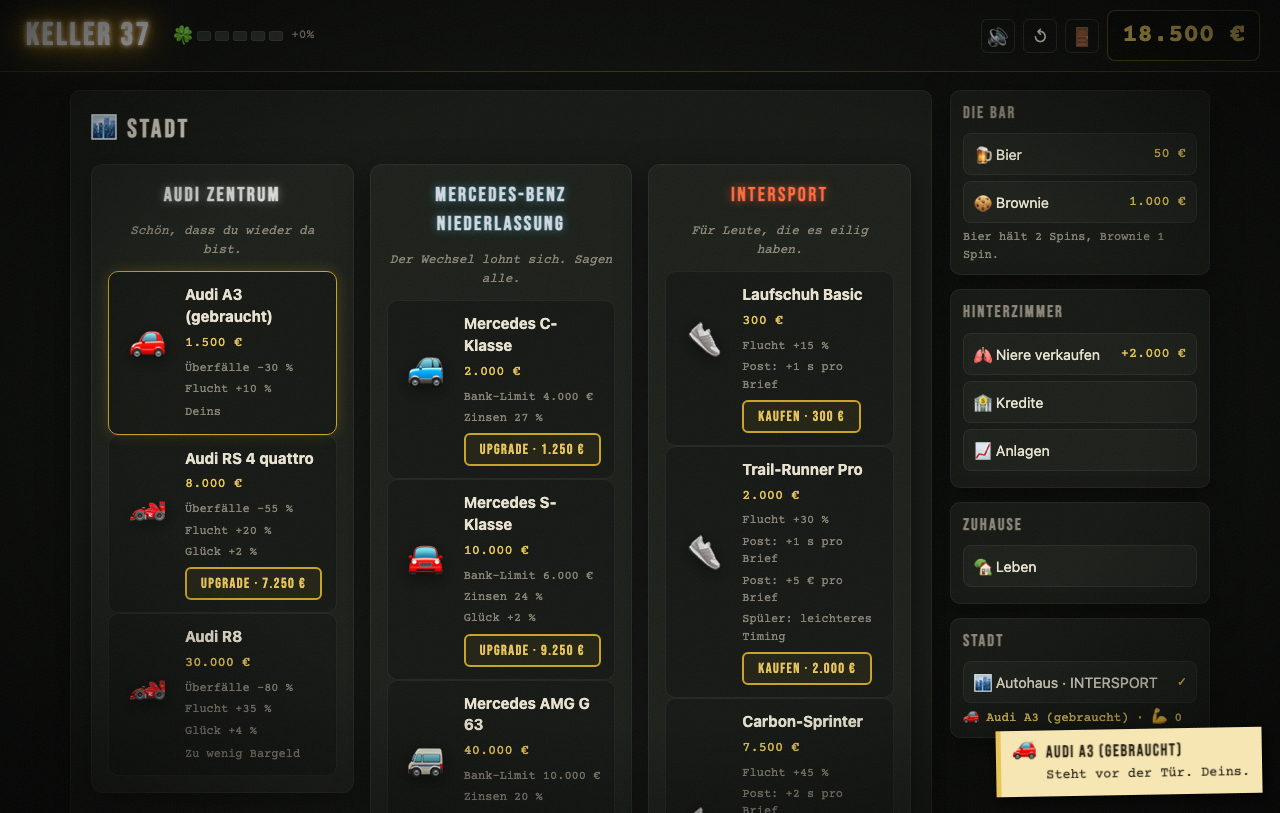
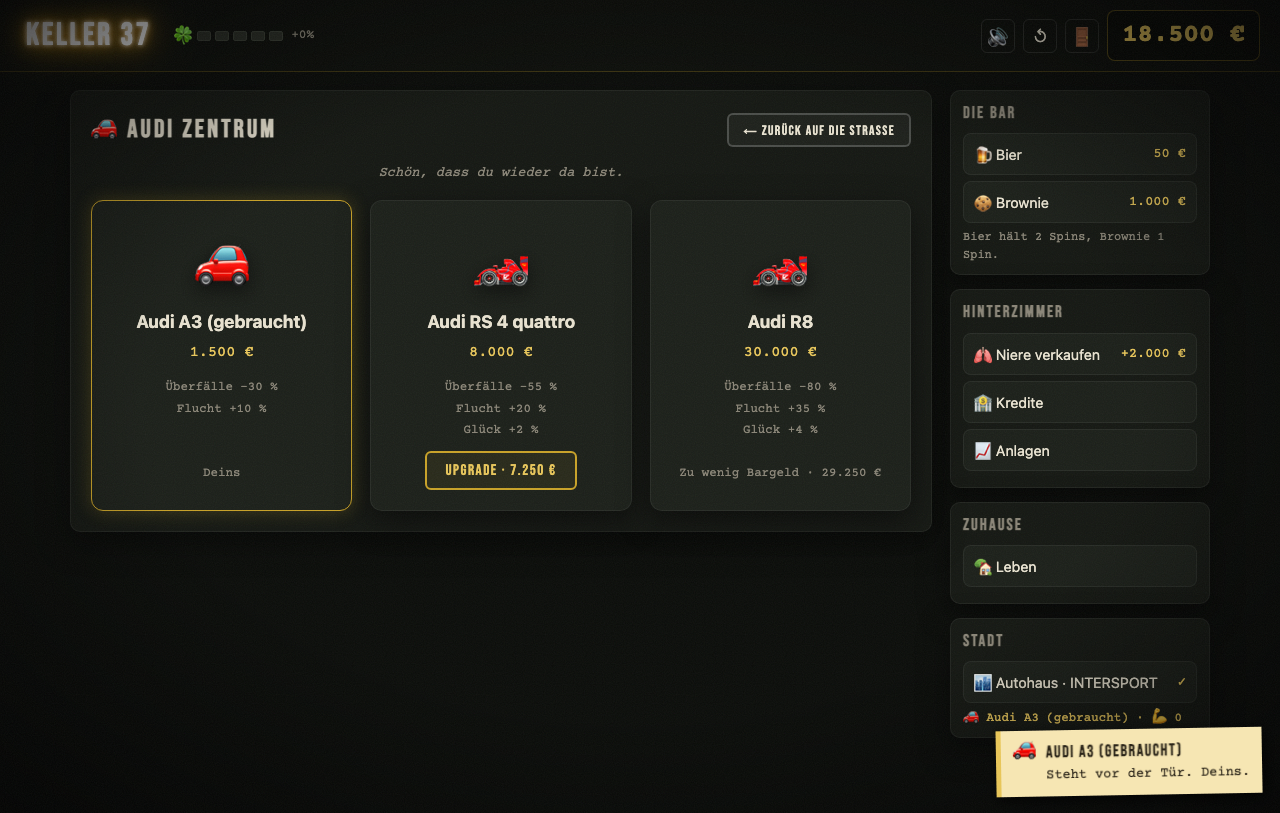
feat(stadt): Straße mit drei Schaufenstern, Läden öffnen sich per Klick mit drei Karten nebeneinander; ?shop=-Parameter

diff --git a/keller37.html b/keller37.html
@@ -502,27 +502,37 @@ body.mode-story #newgame, body.mode-story #toTitle { display: none; }
 @media (min-width: 1440px) and (min-height: 820px) { .body, .title-inner { zoom: 1.15; } }
 @media (min-width: 1700px) and (min-height: 900px) { .body, .title-inner { zoom: 1.35; } }
 @media (min-width: 2200px) and (min-height: 1100px) { .body, .title-inner { zoom: 1.65; } }
-/* ==== Stadt – Autohaus & INTERSPORT ==== */
-.stadt { display: grid; grid-template-columns: repeat(3, 1fr); gap: 16px; align-items: start; }
-.shop { background: var(--panel-2); border: 1px solid rgba(255,255,255,.06); border-radius: 12px; padding: 16px; display: flex; flex-direction: column; gap: 12px; box-shadow: var(--shadow); }
-.shop h3 { font-family: var(--font-display); letter-spacing: .12em; font-size: 1.25rem; text-align: center; }
-.shop.audi h3 { color: #d8d8d8; text-shadow: 0 0 10px rgba(255,255,255,.35); }
-.shop.merc h3 { color: #cfd8e3; text-shadow: 0 0 10px rgba(76,201,240,.45); }
-.shop.sport h3 { color: #ff6a3d; text-shadow: 0 0 10px rgba(255,106,61,.5); }
-.shop .seller { font-family: var(--font-mono); font-size: .8rem; color: var(--dim); text-align: center; font-style: italic; min-height: 2.2em; }
-.gear-card { background: rgba(0,0,0,.25); border: 1px solid rgba(255,255,255,.06); border-radius: 10px; padding: 12px; display: grid; grid-template-columns: 52px 1fr; gap: 6px 12px; align-items: center; }
-.gear-card.owned { border-color: var(--gold); box-shadow: 0 0 14px rgba(201,162,39,.25); }
-.gear-card .pic { font-size: 2.2rem; grid-row: span 3; text-align: center; filter: drop-shadow(0 4px 8px rgba(0,0,0,.6)); }
-.gear-card .name { font-weight: 700; }
-.gear-card .price { font-family: var(--font-mono); color: var(--gold-2); font-size: .85rem; }
-.gear-card ul { list-style: none; font-family: var(--font-mono); font-size: .75rem; color: var(--dim); display: flex; flex-wrap: wrap; gap: 4px 10px; }
-.gear-card .btn { grid-column: 2; justify-self: start; font-size: .9rem; padding: 6px 14px; }
-.gear-card .reason { grid-column: 2; font-family: var(--font-mono); font-size: .75rem; color: var(--dim); }
+/* ==== Stadt – Straße mit drei Läden, Laden mit drei Karten ==== */
+.stadt-head { display: flex; align-items: center; justify-content: space-between; gap: 12px; flex-wrap: wrap; }
+.stadt-head .btn.sm { font-size: .85rem; padding: 6px 14px; }
+.strasse { display: grid; grid-template-columns: repeat(3, 1fr); gap: 18px; }
+.storefront { position: relative; min-height: 330px; border-radius: 10px 10px 4px 4px; background: linear-gradient(180deg, #2b2b30, #141417); border: 2px solid #3a3a42; cursor: pointer;
+  display: flex; flex-direction: column; align-items: center; justify-content: center; gap: 10px; padding: 18px 14px; text-align: center; transition: transform .2s, box-shadow .2s; }
+.storefront::before { content: ""; position: absolute; inset: 8px; border-radius: 6px; background: linear-gradient(180deg, rgba(255,255,255,.08), transparent 55%); pointer-events: none; }
+.storefront::after { content: ""; position: absolute; left: 10%; right: 10%; top: 0; height: 6px; background: var(--neon); filter: blur(6px); opacity: .35; transition: opacity .25s; }
+.storefront:hover { transform: translateY(-3px); box-shadow: 0 12px 30px rgba(0,0,0,.6); }
+.storefront:hover::after { opacity: .9; }
+.storefront .sign { font-family: var(--font-display); font-size: 1.35rem; letter-spacing: .12em; color: #fff; text-shadow: 0 0 10px var(--neon), 0 0 22px var(--neon); }
+.storefront .glyph { font-size: 3.4rem; filter: drop-shadow(0 6px 10px rgba(0,0,0,.7)); }
+.storefront .seller { font-family: var(--font-mono); font-size: .78rem; color: var(--dim); font-style: italic; }
+.storefront .owned { font-family: var(--font-mono); font-size: .78rem; color: var(--gold-2); border: 1px solid rgba(201,162,39,.35); border-radius: 4px; padding: 3px 10px; background: rgba(0,0,0,.35); }
+.storefront.audi { --neon: #e8e8e8; }
+.storefront.merc { --neon: var(--neon-blue); }
+.storefront.sport { --neon: #ff6a3d; }
+.laden-seller { font-family: var(--font-mono); font-size: .85rem; color: var(--dim); font-style: italic; text-align: center; }
+.laden { display: grid; grid-template-columns: repeat(3, 1fr); gap: 18px; align-items: stretch; }
+.gear-card { background: var(--panel-2); border: 1px solid rgba(255,255,255,.06); border-radius: 12px; padding: 20px 16px; display: flex; flex-direction: column; align-items: center; text-align: center; gap: 8px; box-shadow: var(--shadow); }
+.gear-card.owned { border-color: var(--gold); box-shadow: 0 0 18px rgba(201,162,39,.25); }
+.gear-card .pic { font-size: 3.4rem; height: 80px; display: flex; align-items: center; justify-content: center; filter: drop-shadow(0 6px 10px rgba(0,0,0,.6)); }
+.gear-card .name { font-weight: 700; font-size: 1.1rem; }
+.gear-card .price { font-family: var(--font-mono); color: var(--gold-2); font-size: .95rem; }
+.gear-card ul { list-style: none; font-family: var(--font-mono); font-size: .78rem; color: var(--dim); display: flex; flex-direction: column; gap: 3px; margin: 6px 0 4px; }
+.gear-card .btn { margin-top: auto; font-size: .95rem; padding: 8px 18px; }
+.gear-card .reason { margin-top: auto; font-family: var(--font-mono); font-size: .78rem; color: var(--dim); padding: 8px 0; }
 .gear-line { font-family: var(--font-mono); font-size: .78rem; color: var(--gold-2); }
 .cs-bg.autohaus { background: linear-gradient(180deg, #e8eef3 0%, #b9c4cf 45%, #3c4249 46%, #1b1f23 100%); }
 .cs-bg.intersport { background: linear-gradient(180deg, #1a1a1a 0%, #2b2b2b 50%, #ff6a3d 51%, #b03d1c 100%); }
-@media (max-width: 1100px) { .stadt { grid-template-columns: 1fr 1fr; } }
-@media (max-width: 760px) { .stadt { grid-template-columns: 1fr; } }
+@media (max-width: 760px) { .strasse, .laden { grid-template-columns: 1fr; } .storefront { min-height: 180px; } }
 .cs-bg.gasse { background: linear-gradient(180deg, #05060a 0%, #14161e 55%, #2a2418 56%, #0d0b07 100%); }
 /* ==== 7. ANIMATIONEN ==== */
 @keyframes screenIn { from { opacity: 0; transform: translateY(8px); } to { opacity: 1; transform: none; } }
@@ -879,12 +889,10 @@ body.mode-story #newgame, body.mode-story #toTitle { display: none; }
 </template>
 <template id="tpl-stadt">
   <div class="panel stretch">
-    <h2>🏙 Stadt</h2>
-    <div class="stadt">
-      <section class="shop audi"><h3>Audi Zentrum</h3><p class="seller" id="sellerAudi"></p><div id="shopAudi"></div></section>
-      <section class="shop merc"><h3>Mercedes-Benz Niederlassung</h3><p class="seller" id="sellerMerc"></p><div id="shopMerc"></div></section>
-      <section class="shop sport"><h3>INTERSPORT</h3><p class="seller" id="sellerSport"></p><div id="shopSport"></div></section>
-    </div>
+    <div class="stadt-head"><h2 id="stadtTitle">🏙 Stadt</h2><button class="btn ghost sm hidden" id="stadtBack">← Zurück auf die Straße</button></div>
+    <p class="laden-seller hidden" id="ladenSeller"></p>
+    <div class="strasse" id="strasse"></div>
+    <div class="laden hidden" id="laden"></div>
   </div>
 </template>
 <!-- /TEMPLATES -->
@@ -2288,6 +2296,12 @@ Cutscene.bind('dealer.hired', 'dealer.hired');
 /* ================= STADT – Autohaus (Audi / Mercedes) und INTERSPORT ================= */
 const Stadt = {
   root: null,
+  shop: null,   // null = Straße, sonst 'audi' | 'merc' | 'sport'
+  SHOPS: {
+    audi: { name: 'Audi Zentrum', icon: '🚗', kind: 'car', brand: 'audi' },
+    merc: { name: 'Mercedes-Benz Niederlassung', icon: '🚘', kind: 'car', brand: 'merc' },
+    sport: { name: 'INTERSPORT', icon: '👟', kind: 'shoes' },
+  },
   SELLER: {
     none: 'Zu Fuß gekommen? Mutig.',
     same: 'Schön, dass du wieder da bist.',
@@ -2323,27 +2337,55 @@ const Stadt = {
     else el.append(h('span', { class: 'reason' }, (this.REASON[check.reason] || check.reason) + reasonSuffix));
     return el;
   },
+  seller(id) {
+    if (id === 'sport') return this.SELLER.sport;
+    const cur = State.s.car ? Rules.GEAR.cars[State.s.car] : null;
+    return !cur ? this.SELLER.none : cur.brand === id ? this.SELLER.same : this.SELLER.other;
+  },
+  ownedLine(id) {
+    const s = State.s;
+    if (id === 'sport') return `Deine Schuhe: ${s.shoes ? Rules.GEAR.shoes[s.shoes].name : '–'}`;
+    return `Dein Wagen: ${s.car ? Rules.GEAR.cars[s.car].name : '–'}`;
+  },
+  open(id) { if (!this.SHOPS[id]) return; SFX.play('click'); this.shop = id; this.render(); },
+  close() { SFX.play('click'); this.shop = null; this.render(); },
   render() {
     if (!this.root) return;
+    const street = qs('#strasse', this.root), laden = qs('#laden', this.root);
+    const shop = this.shop ? this.SHOPS[this.shop] : null;
+    qs('#stadtTitle', this.root).textContent = shop ? `${shop.icon} ${shop.name}` : '🏙 Stadt';
+    qs('#stadtBack', this.root).classList.toggle('hidden', !shop);
+    qs('#ladenSeller', this.root).classList.toggle('hidden', !shop);
+    street.classList.toggle('hidden', !!shop);
+    laden.classList.toggle('hidden', !shop);
+    street.innerHTML = ''; laden.innerHTML = '';
+    if (!shop) {
+      for (const [id, sh] of Object.entries(this.SHOPS)) {
+        street.append(h('div', { class: `storefront ${id}`, 'data-shop': id, onclick: () => this.open(id) },
+          h('div', { class: 'sign' }, sh.name),
+          h('div', { class: 'glyph' }, sh.icon),
+          h('p', { class: 'seller' }, this.seller(id)),
+          h('div', { class: 'owned' }, this.ownedLine(id))));
+      }
+      return;
+    }
+    qs('#ladenSeller', this.root).textContent = this.seller(this.shop);
     const s = State.s;
-    const cur = s.car ? Rules.GEAR.cars[s.car] : null;
-    for (const [brand, boxId, sellerId] of [['audi', '#shopAudi', '#sellerAudi'], ['merc', '#shopMerc', '#sellerMerc']]) {
-      const box = qs(boxId, this.root); box.innerHTML = '';
-      qs(sellerId, this.root).textContent = !cur ? this.SELLER.none : cur.brand === brand ? this.SELLER.same : this.SELLER.other;
-      Object.entries(Rules.GEAR.cars).filter(([, c]) => c.brand === brand).sort((a, b) => a[1].tier - b[1].tier).forEach(([id, c]) => {
+    if (shop.kind === 'car') {
+      const cur = s.car ? Rules.GEAR.cars[s.car] : null;
+      Object.entries(Rules.GEAR.cars).filter(([, c]) => c.brand === shop.brand).sort((a, b) => a[1].tier - b[1].tier).forEach(([id, c]) => {
         const check = Rules.canBuyCar(s, id);
         const brandSwitch = cur && cur.brand !== c.brand;
         const verb = cur ? (brandSwitch && check.cost === 0 ? 'Wechsel' : 'Upgrade') : 'Kaufen';
         const label = `${verb} · ${UI.fmt(check.cost)}`;
         const reasonSuffix = check.reason === 'funds' && cur ? ` · ${UI.fmt(check.cost)}` : '';
-        box.append(this.card(c, this.carPerks(c), check, label, () => this.buyCar(id), reasonSuffix));
+        laden.append(this.card(c, this.carPerks(c), check, label, () => this.buyCar(id), reasonSuffix));
+      });
+    } else {
+      Object.entries(Rules.GEAR.shoes).sort((a, b) => a[1].tier - b[1].tier).forEach(([id, sh]) => {
+        laden.append(this.card(sh, this.shoePerks(sh), Rules.canBuyShoes(s, id), `Kaufen · ${UI.fmt(sh.price)}`, () => this.buyShoes(id)));
       });
     }
-    const box = qs('#shopSport', this.root); box.innerHTML = '';
-    qs('#sellerSport', this.root).textContent = this.SELLER.sport;
-    Object.entries(Rules.GEAR.shoes).sort((a, b) => a[1].tier - b[1].tier).forEach(([id, sh]) => {
-      box.append(this.card(sh, this.shoePerks(sh), Rules.canBuyShoes(s, id), `Kaufen · ${UI.fmt(sh.price)}`, () => this.buyShoes(id)));
-    });
   },
   busy() { return Cutscene.active || Game.inFlight > 0; },
   async buyCar(id) {
@@ -2359,7 +2401,7 @@ const Stadt = {
       if (choice !== 'yes' || this.busy() || !Rules.canBuyCar(s, id).ok) return; // Zustand kann sich während der Szene geändert haben
     }
     SFX.play('cash');
-    Game.applyDelta(-Rules.canBuyCar(s, id).cost, { from: this.root ? qs(car.brand === 'audi' ? '#shopAudi' : '#shopMerc', this.root) : null });
+    Game.applyDelta(-Rules.canBuyCar(s, id).cost, { from: this.root ? qs('#laden', this.root) : null });
     s.car = id;
     State.save();
     await Cutscene.play('stadt.car', { name: car.name });
@@ -2373,7 +2415,7 @@ const Stadt = {
     if (!Rules.canBuyShoes(s, id).ok) return;
     const sh = Rules.GEAR.shoes[id];
     SFX.play('cash');
-    Game.applyDelta(-sh.price, { from: this.root ? qs('#shopSport', this.root) : null });
+    Game.applyDelta(-sh.price, { from: this.root ? qs('#laden', this.root) : null });
     s.shoes = id;
     State.save();
     await Cutscene.play('stadt.shoes', { name: sh.name });
@@ -2398,8 +2440,8 @@ const Stadt = {
 };
 UI.register('stadt', {
   template: 'tpl-stadt',
-  mount(root) { Stadt.root = root; Stadt.render(); },
-  unmount() { Stadt.root = null; },
+  mount(root) { Stadt.root = root; qs('#stadtBack', root).addEventListener('click', () => Stadt.close()); Stadt.render(); },
+  unmount() { Stadt.root = null; Stadt.shop = null; },
 });
 Cutscene.define('stadt.tradein', (ctx) => [
   { bg: 'autohaus', who: 'verkaeufer', mood: 'calm', text: `Dein ${ctx.old} geht mit ${ctx.tradeIn} in Zahlung. Bleiben ${ctx.cost} für den ${ctx.neu}. Weiter?`,
@@ -5498,6 +5540,7 @@ T.test('Story Schuld: stadtOffen ab Tag 4, Eintreiber mit Türsteher freigeschal
   if (!skipTitle) { const choice = await Title.show(); await Modes.enter(choice); return; }
   /* Dev-Pfad freies Spiel: wie bisher */
   document.body.classList.add('mode-free');
+  if (params.has('shop') && typeof Stadt !== 'undefined') Stadt.shop = Stadt.SHOPS[params.get('shop')] ? params.get('shop') : null;
   await UI.show(params.get('screen') || 'hub');
   let gameOverAtBoot = false;
   if (Rules.isGameOver(State.s)) { gameOverAtBoot = true; await Bus.emit('gameover', {}); }

diff --git a/tests/playtest-story.py b/tests/playtest-story.py
@@ -892,7 +892,17 @@ async def scenario_stadt_shop(cdp):
     await cdp.navigate(URL_BASE + "?fresh&screen=stadt")
     await asyncio.sleep(1.0)
     await cdp.inject_helpers()
-    n_buttons = await cdp.eval("document.querySelectorAll('#shopAudi .btn').length", await_promise=False)
+    # Strasse: drei Schaufenster, Laden noch zu
+    n_fronts = await cdp.eval("document.querySelectorAll('#strasse .storefront').length", await_promise=False)
+    laden_hidden = await cdp.eval("document.querySelector('#laden').classList.contains('hidden')", await_promise=False)
+    record("stadt: Strasse zeigt drei Schaufenster, Laden zu", n_fronts == 3 and laden_hidden is True, "fronts=%s laden_hidden=%s" % (n_fronts, laden_hidden))
+    await cdp.screenshot("stadt-strasse.png")
+    await cdp.click(".storefront.audi")
+    await asyncio.sleep(0.3)
+    n_cards = await cdp.eval("document.querySelectorAll('#laden .gear-card').length", await_promise=False)
+    title = await cdp.eval("document.querySelector('#stadtTitle').textContent", await_promise=False)
+    record("stadt: Klick auf Audi Zentrum oeffnet Laden mit drei Karten", n_cards == 3 and title is not None and "Audi Zentrum" in title, "cards=%s title=%s" % (n_cards, title))
+    n_buttons = await cdp.eval("document.querySelectorAll('#laden .btn').length", await_promise=False)
     record("stadt: ohne Geld kein Kaufen-Button", n_buttons == 0, "buttons=%s" % n_buttons)
     await cdp.screenshot("stadt-arm.png")
     await cdp.eval("State.s.balance = 20000; State.save(); UI.setBalance(20000, {animate:false}); Stadt.render(); 0", await_promise=False)
@@ -904,7 +914,7 @@ async def scenario_stadt_shop(cdp):
     car = await cdp.eval("State.s.car", await_promise=False)
     bal = await cdp.eval("State.s.balance", await_promise=False)
     record("stadt: A3 gekauft", car == "audiA3" and bal == 18500, "car=%s bal=%s" % (car, bal))
-    label = await cdp.eval("[...document.querySelectorAll('#shopAudi .gear-card')][1].querySelector('.btn').textContent", await_promise=False)
+    label = await cdp.eval("[...document.querySelectorAll('#laden .gear-card')][1].querySelector('.btn').textContent", await_promise=False)
     record("stadt: RS 4 zeigt Upgrade-Preis mit Inzahlungnahme", label is not None and "7.250" in label, "label=%s" % label)
     await cdp.screenshot("stadt-a3.png")
     # Markenwechsel mit Bestaetigung: erst abbrechen, dann zustimmen
@@ -927,6 +937,10 @@ async def scenario_stadt_shop(cdp):
     await asyncio.sleep(0.3)
     shoes = await cdp.eval("State.s.shoes", await_promise=False)
     record("stadt: Trail-Runner gekauft", shoes == "trail", "shoes=%s" % shoes)
+    await cdp.click("#stadtBack")
+    await asyncio.sleep(0.3)
+    owned = await cdp.eval("[...document.querySelectorAll('#strasse .storefront .owned')].map(e=>e.textContent).join('|')", await_promise=False)
+    record("stadt: Zurueck auf die Strasse zeigt Besitz an den Schaufenstern", owned is not None and "Mercedes C-Klasse" in owned and "Trail-Runner Pro" in owned, "owned=%s" % owned)
     line = await cdp.eval("document.querySelector('#gearLine') && document.querySelector('#gearLine').textContent", await_promise=False)
     record("stadt: Seitenleiste zeigt Besitz", line is not None and "Mercedes C-Klasse" in line and "Trail-Runner" in line and "💪 0" in line, "line=%s" % line)
     terms = await cdp.eval("UI.show('finance').then(()=>document.querySelector('#bankTerms').textContent)")

diff --git a/docs/superpowers/specs/2026-09-16-stadt-und-ueberfall-design.md b/docs/superpowers/specs/2026-09-16-stadt-und-ueberfall-design.md
@@ -224,3 +224,4 @@ Branch `feature/stadt-ueberfall` von `main`, Umsetzung per Plan (`writing-plans`
 - Das Ergebnis-Panel bei Flucht nutzt `fx: 'flash'` statt `swipe` – ein `swipe`-Effekt existiert im Cutscene-Katalog nicht.
 - Nicht kaufbare Karten (Stadt) zeigen wie im Leben-Raum einen Grund-Span statt eines deaktivierten Buttons mit Tooltip; bei `funds` **mit** vorhandenem Auto steht dort zusätzlich der wirksame Preis (nach Inzahlungnahme), z. B. „Zu wenig Bargeld · 7.250 €".
 - `stadtOffen` prüft `day ≥ 4` statt `day === 4` (weiterhin `once`), damit auch Saves, die Tag 4 bereits hinter sich haben, die Stadt bei nächster Gelegenheit freigeschaltet bekommen.
+- **Stadt als Straße (Nutzerwunsch nach dem ersten Spielen):** Der Screen zeigt zuerst drei Schaufenster (Audi Zentrum, Mercedes-Benz Niederlassung, INTERSPORT) mit Verkäufer-Spruch und aktuellem Besitz; ein Klick öffnet den Laden mit seinen drei Karten nebeneinander und „← Zurück auf die Straße". Dev-Parameter `?screen=stadt&shop=audi|merc|sport`.
